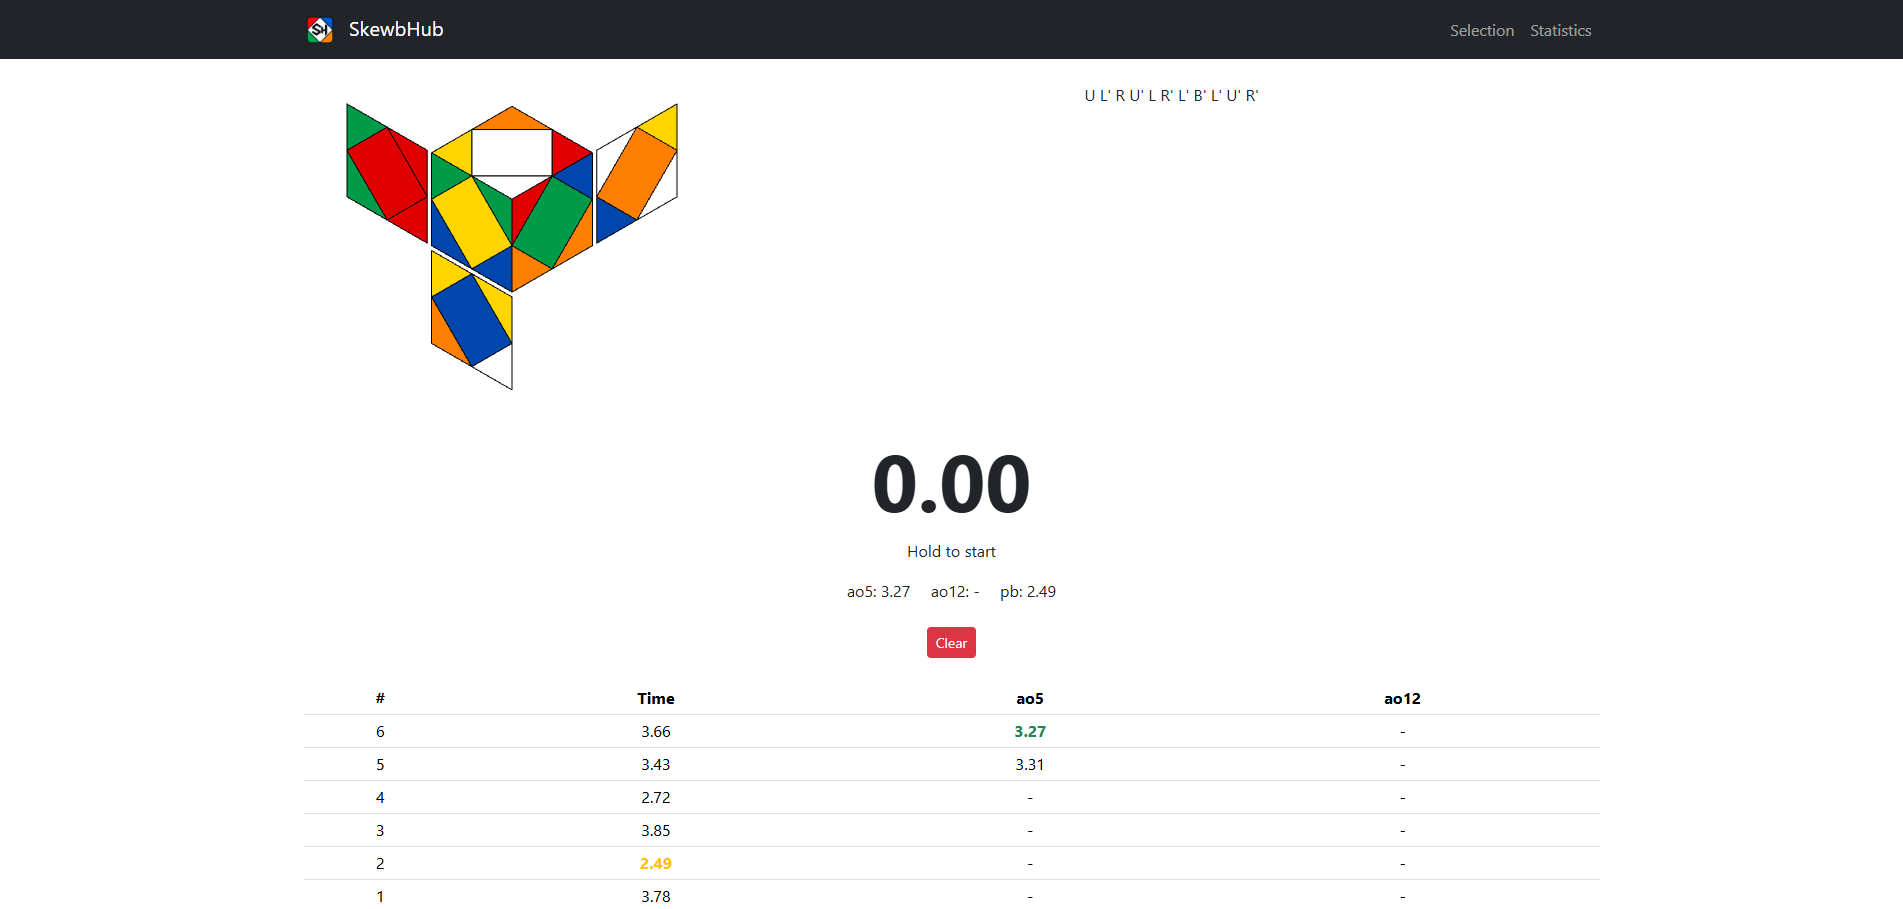
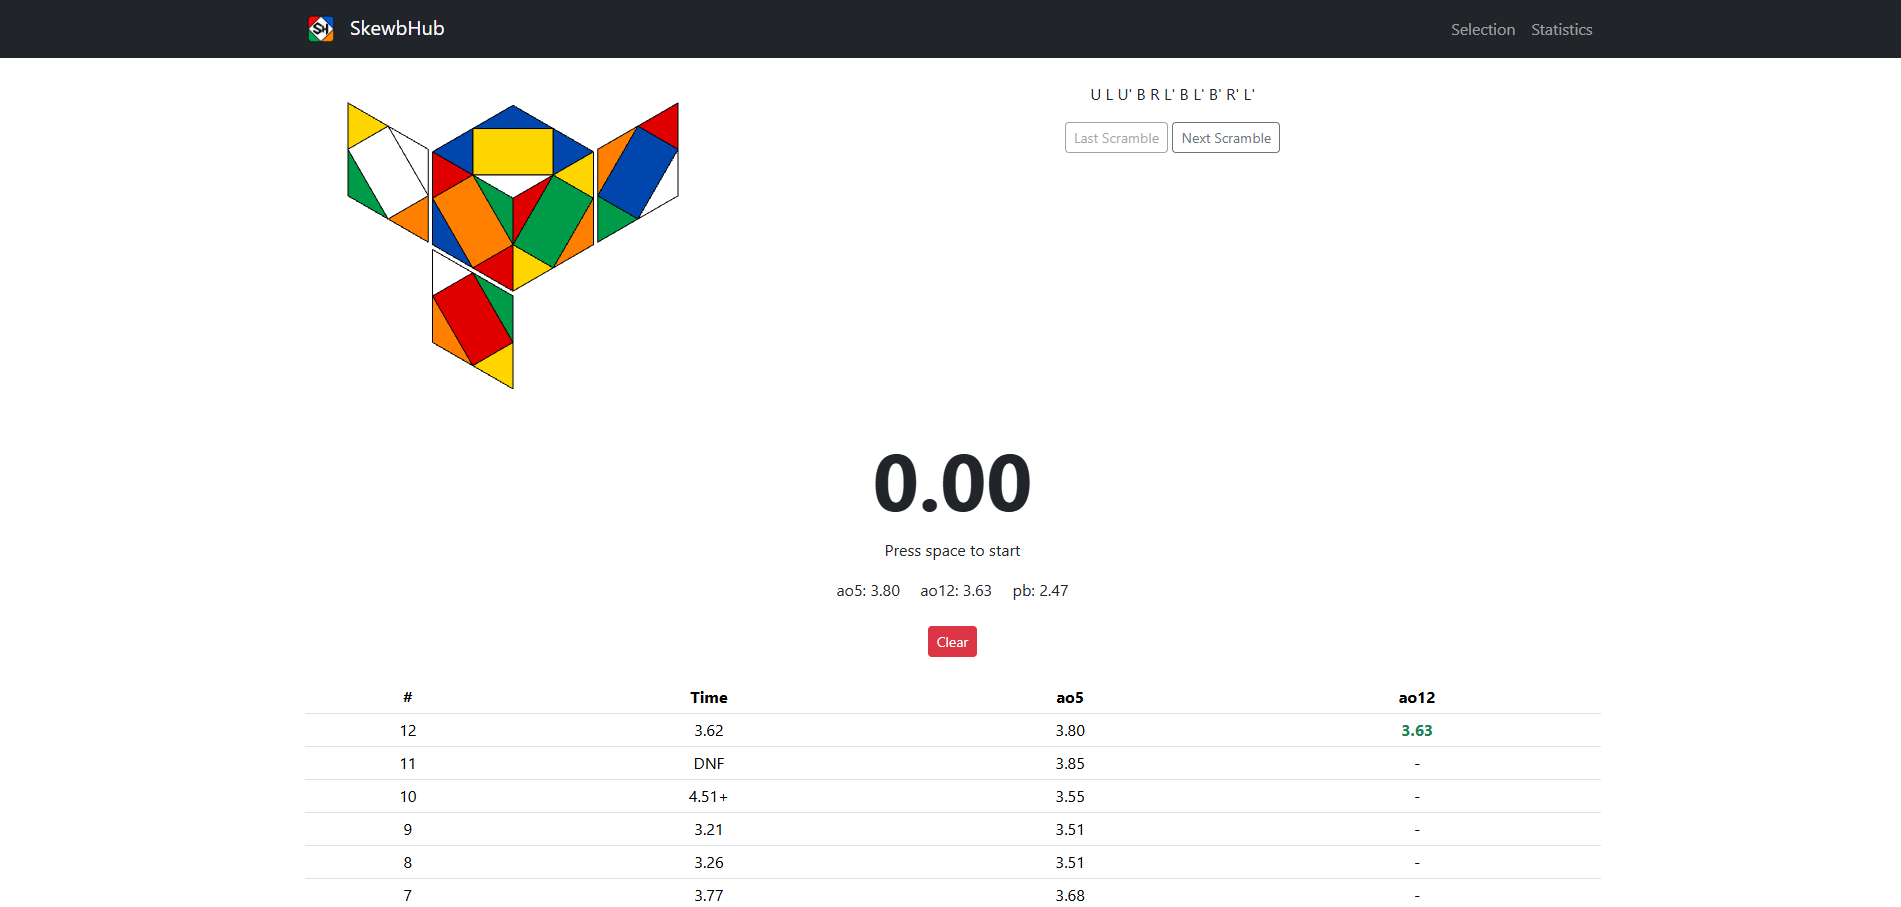
Update README for v0.5.0

diff --git a/README.md b/README.md
@@ -3,7 +3,8 @@
 
 A web-based Skewb timer and algorithm trainer to practice cases and track your times.
 
-![SkewbHub screenshot](docs/screenshot.png)
+![SkewbHub timer](docs/screenshot.png)
+![Solve dialog with +2, DNF and saved scramble](docs/screenshot-dialog.png)
 
 ## Features
 - Timer with spacebar control (hold to start on touch screens)
@@ -12,6 +13,8 @@ A web-based Skewb timer and algorithm trainer to practice cases and track your t
 - Session statistics (ao5, ao12, pb) saved in your browser
 - Delete individual times or clear the session
 - Scramble history with previous and next buttons
+- +2 and DNF penalties
+- Scramble saved with each solve
 
 ## Tech Stack
 HTML · CSS · Bootstrap · JavaScript · jQuery
@@ -21,7 +24,6 @@ HTML · CSS · Bootstrap · JavaScript · jQuery
 
 ## Roadmap
 - Case training mode
-- +2 and DNF penalties
 - Export/import times (JSON/CSV)
 
 ## Credits
